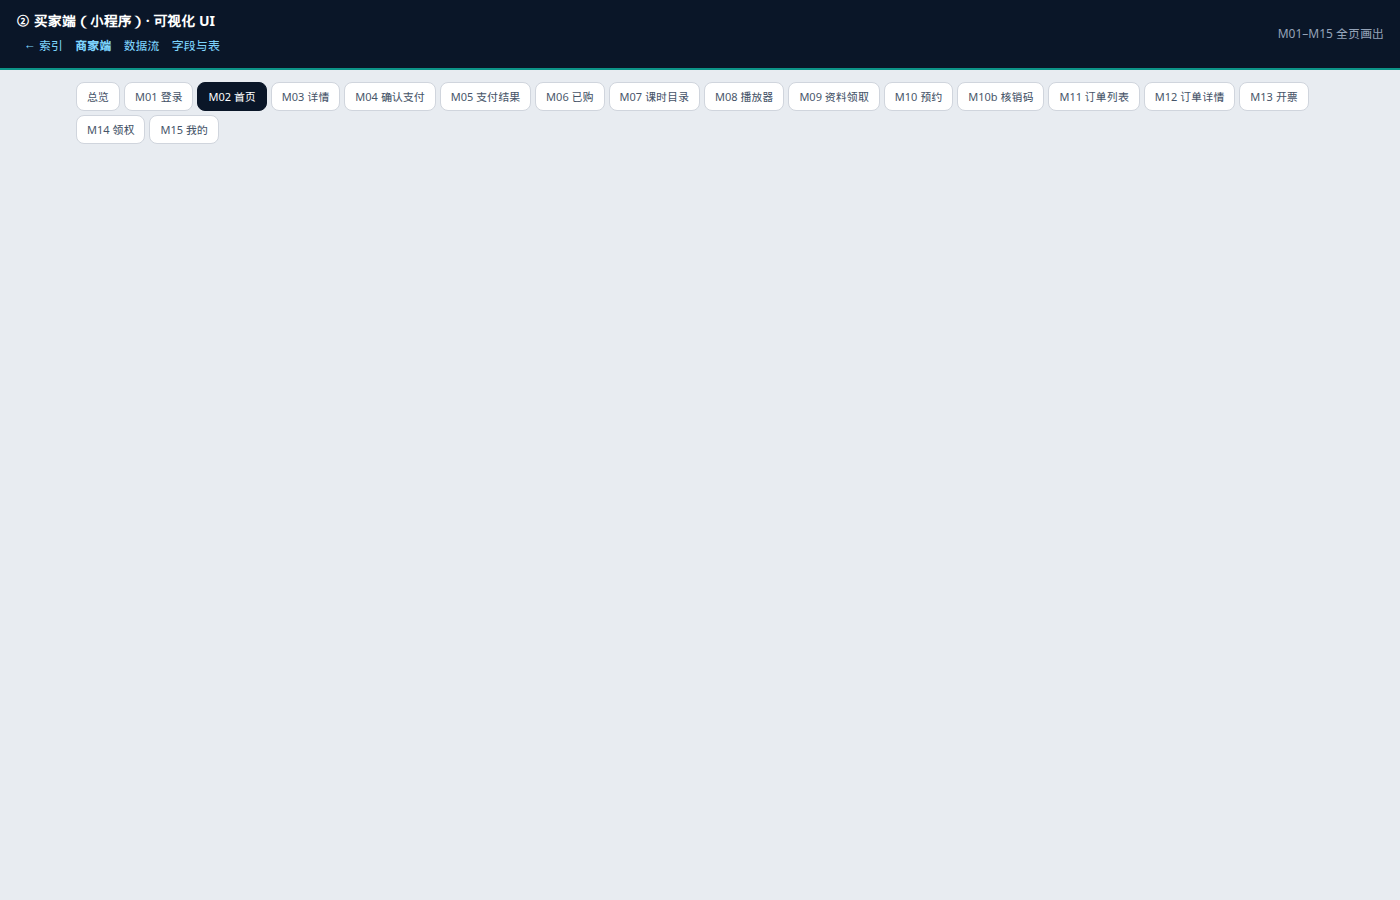
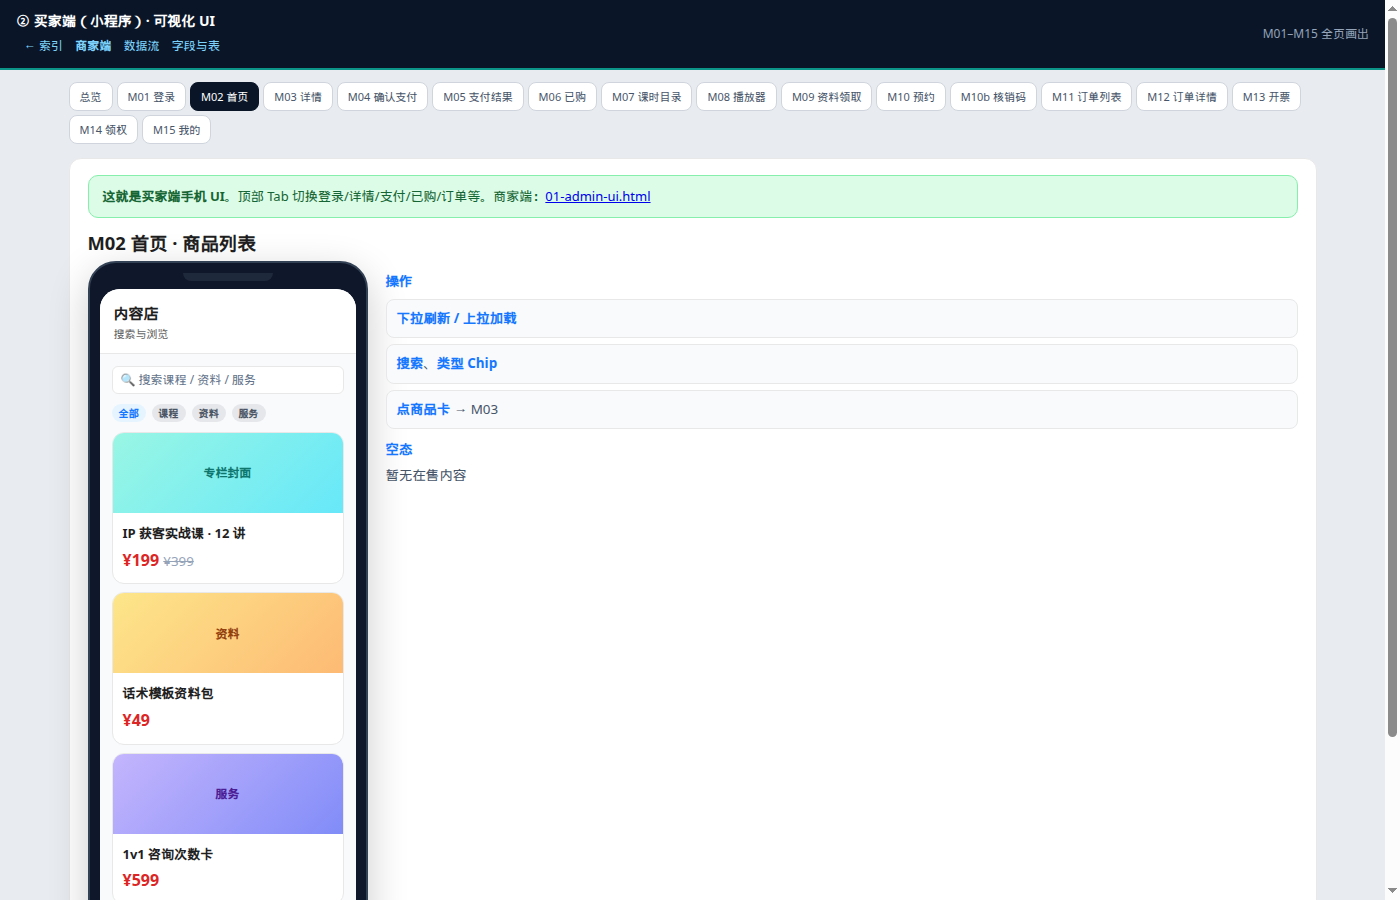
fix: 修复买家端空白页并强化 UI 入口
买家端 page.on 丢失导致内容区全隐藏；恢复默认 M02 首页并更新截图。
index 嵌入预览图与切分支说明，避免本地误在 master 找不到文件。

Changed region(s): [[0.0614, 0.1867, 0.4607, 1.0], [0.0614, 0.0933, 0.9214, 0.1556], [0.8907, 0.0, 1.0, 0.84]]

diff --git a/content-acquisition-shop-prd-phase1/content-acquisition-shop-prd-phase1.html b/content-acquisition-shop-prd-phase1/content-acquisition-shop-prd-phase1.html
@@ -6,42 +6,68 @@
 <title>【点我看UI】内容获客 Phase1 商家端+买家端</title>
 <style>
 body{font-family:-apple-system,"PingFang SC","Microsoft YaHei",sans-serif;margin:0;background:#0f172a;color:#e2e8f0}
-.hero{padding:48px 24px;text-align:center}
-.hero h1{font-size:1.6rem;margin:0 0 12px;color:#fff}
-.hero p{opacity:.85;margin:0 0 28px}
-.cards{display:flex;gap:16px;justify-content:center;flex-wrap:wrap;max-width:900px;margin:0 auto}
-.card{background:#1e293b;border:2px solid #38bdf8;border-radius:16px;padding:28px 24px;width:280px;text-align:left}
-.card h2{margin:0 0 8px;font-size:1.2rem;color:#7dd3fc}
-.card p{font-size:.9rem;color:#94a3b8;margin:0 0 16px;line-height:1.5}
+.hero{padding:36px 24px 12px;text-align:center}
+.hero h1{font-size:1.55rem;margin:0 0 10px;color:#fff}
+.hero p{opacity:.85;margin:0 0 22px;line-height:1.6}
+.cards{display:flex;gap:16px;justify-content:center;flex-wrap:wrap;max-width:960px;margin:0 auto}
+.card{background:#1e293b;border:2px solid #38bdf8;border-radius:16px;padding:22px 20px;width:300px;text-align:left}
+.card h2{margin:0 0 8px;font-size:1.15rem;color:#7dd3fc}
+.card p{font-size:.88rem;color:#94a3b8;margin:0 0 14px;line-height:1.5}
 .card a{display:block;text-align:center;padding:12px;background:#1677ff;color:#fff;border-radius:10px;text-decoration:none;font-weight:700}
 .card a.sec{background:#0d9488;margin-top:8px}
-.tip{max-width:640px;margin:28px auto 0;font-size:13px;color:#94a3b8;line-height:1.6}
+.shots{max-width:1100px;margin:28px auto;padding:0 16px 48px}
+.shots h2{font-size:1.05rem;color:#7dd3fc;margin:0 0 12px}
+.shot{background:#1e293b;border:1px solid #334155;border-radius:12px;padding:12px;margin-bottom:18px}
+.shot img{width:100%;border-radius:8px;display:block;background:#0b1220}
+.shot .cap{font-size:12px;color:#94a3b8;margin-top:8px}
+.tip{max-width:720px;margin:8px auto 0;font-size:13px;color:#94a3b8;line-height:1.7;text-align:left;padding:0 16px 40px}
 code{background:#334155;padding:2px 6px;border-radius:4px;color:#7dd3fc}
+.warn{background:#422006;border:1px solid #f59e0b;color:#fde68a;border-radius:10px;padding:12px 14px;margin:16px auto;max-width:720px;text-align:left;font-size:13px;line-height:1.6}
 </style>
 </head>
 <body>
 <div class="hero">
   <h1>【点我看 UI】内容获客 Phase 1</h1>
-  <p>打开下面链接即可看到画好的界面线框（不是 ASCII 文字框）</p>
+  <p>用<strong>浏览器</strong>打开下方链接（不要用 Cursor 文本预览）。默认即见画出的界面线框。</p>
   <div class="cards">
     <div class="card">
       <h2>① 商家端 Web</h2>
-      <p>默认进入「交易看板」：左侧菜单、指标卡、图表、订单表都已画出。</p>
+      <p>默认「交易看板」：左侧菜单、指标卡、图表、订单表。</p>
       <a href="01-admin-ui.html">打开商家端 UI →</a>
       <a class="sec" href="01-merchant-ui.html">备用同名入口</a>
     </div>
     <div class="card">
       <h2>② 买家端小程序</h2>
-      <p>默认进入「首页」手机壳：商品列表、底栏、可切换详情/支付/已购等。</p>
+      <p>默认「首页」手机壳：商品列表、底栏；顶部 Tab 可切详情/支付/已购等。</p>
       <a href="02-buyer-ui.html">打开买家端 UI →</a>
     </div>
   </div>
-  <div class="tip">
-    <b>若本地看不到这些文件：</b>请切换到 Git 分支 <code>cursor/shop-phase1-prd-ui-8b7d</code> 再拉取，
-    或打开 PR：https://github.com/shishengfei-sss/ai-content-marketing/pull/1<br>
-    目录：<code>content-acquisition-shop-prd-phase1/</code><br>
-    本文件：<code>index.html</code> / <code>【点我看UI】商家端与买家端.html</code>
+</div>
+
+<div class="warn">
+  <b>若本地没有 index / 看不到本目录：</b><br>
+  这些文件只在 Git 分支 <code>cursor/shop-phase1-prd-ui-8b7d</code>（不在 master）。请执行：<br>
+  <code>git fetch origin</code><br>
+  <code>git checkout cursor/shop-phase1-prd-ui-8b7d</code><br>
+  然后双击打开：<code>content-acquisition-shop-prd-phase1/index.html</code><br>
+  PR：https://github.com/shishengfei-sss/ai-content-marketing/pull/1
+</div>
+
+<div class="shots">
+  <h2>预览截图（打开上面链接可交互切换页面）</h2>
+  <div class="shot">
+    <img src="screenshots/merchant-a01.png" alt="商家端 A01 交易看板">
+    <div class="cap">商家端 · A01 交易看板</div>
   </div>
+  <div class="shot">
+    <img src="screenshots/buyer-m02.png" alt="买家端 M02 首页">
+    <div class="cap">买家端 · M02 首页（手机壳）</div>
+  </div>
+</div>
+
+<div class="tip">
+  同目录还有：<code>03-data-flows.html</code>（数据流）、<code>04-data-model.html</code>（表字段）、
+  <code>【点我看UI】商家端与买家端.html</code>（与本 index 相同入口）。
 </div>
 </body>
 </html>

diff --git a/content-acquisition-shop-prd-phase1/index.html b/content-acquisition-shop-prd-phase1/index.html
@@ -6,42 +6,68 @@
 <title>【点我看UI】内容获客 Phase1 商家端+买家端</title>
 <style>
 body{font-family:-apple-system,"PingFang SC","Microsoft YaHei",sans-serif;margin:0;background:#0f172a;color:#e2e8f0}
-.hero{padding:48px 24px;text-align:center}
-.hero h1{font-size:1.6rem;margin:0 0 12px;color:#fff}
-.hero p{opacity:.85;margin:0 0 28px}
-.cards{display:flex;gap:16px;justify-content:center;flex-wrap:wrap;max-width:900px;margin:0 auto}
-.card{background:#1e293b;border:2px solid #38bdf8;border-radius:16px;padding:28px 24px;width:280px;text-align:left}
-.card h2{margin:0 0 8px;font-size:1.2rem;color:#7dd3fc}
-.card p{font-size:.9rem;color:#94a3b8;margin:0 0 16px;line-height:1.5}
+.hero{padding:36px 24px 12px;text-align:center}
+.hero h1{font-size:1.55rem;margin:0 0 10px;color:#fff}
+.hero p{opacity:.85;margin:0 0 22px;line-height:1.6}
+.cards{display:flex;gap:16px;justify-content:center;flex-wrap:wrap;max-width:960px;margin:0 auto}
+.card{background:#1e293b;border:2px solid #38bdf8;border-radius:16px;padding:22px 20px;width:300px;text-align:left}
+.card h2{margin:0 0 8px;font-size:1.15rem;color:#7dd3fc}
+.card p{font-size:.88rem;color:#94a3b8;margin:0 0 14px;line-height:1.5}
 .card a{display:block;text-align:center;padding:12px;background:#1677ff;color:#fff;border-radius:10px;text-decoration:none;font-weight:700}
 .card a.sec{background:#0d9488;margin-top:8px}
-.tip{max-width:640px;margin:28px auto 0;font-size:13px;color:#94a3b8;line-height:1.6}
+.shots{max-width:1100px;margin:28px auto;padding:0 16px 48px}
+.shots h2{font-size:1.05rem;color:#7dd3fc;margin:0 0 12px}
+.shot{background:#1e293b;border:1px solid #334155;border-radius:12px;padding:12px;margin-bottom:18px}
+.shot img{width:100%;border-radius:8px;display:block;background:#0b1220}
+.shot .cap{font-size:12px;color:#94a3b8;margin-top:8px}
+.tip{max-width:720px;margin:8px auto 0;font-size:13px;color:#94a3b8;line-height:1.7;text-align:left;padding:0 16px 40px}
 code{background:#334155;padding:2px 6px;border-radius:4px;color:#7dd3fc}
+.warn{background:#422006;border:1px solid #f59e0b;color:#fde68a;border-radius:10px;padding:12px 14px;margin:16px auto;max-width:720px;text-align:left;font-size:13px;line-height:1.6}
 </style>
 </head>
 <body>
 <div class="hero">
   <h1>【点我看 UI】内容获客 Phase 1</h1>
-  <p>打开下面链接即可看到画好的界面线框（不是 ASCII 文字框）</p>
+  <p>用<strong>浏览器</strong>打开下方链接（不要用 Cursor 文本预览）。默认即见画出的界面线框。</p>
   <div class="cards">
     <div class="card">
       <h2>① 商家端 Web</h2>
-      <p>默认进入「交易看板」：左侧菜单、指标卡、图表、订单表都已画出。</p>
+      <p>默认「交易看板」：左侧菜单、指标卡、图表、订单表。</p>
       <a href="01-admin-ui.html">打开商家端 UI →</a>
       <a class="sec" href="01-merchant-ui.html">备用同名入口</a>
     </div>
     <div class="card">
       <h2>② 买家端小程序</h2>
-      <p>默认进入「首页」手机壳：商品列表、底栏、可切换详情/支付/已购等。</p>
+      <p>默认「首页」手机壳：商品列表、底栏；顶部 Tab 可切详情/支付/已购等。</p>
       <a href="02-buyer-ui.html">打开买家端 UI →</a>
     </div>
   </div>
-  <div class="tip">
-    <b>若本地看不到这些文件：</b>请切换到 Git 分支 <code>cursor/shop-phase1-prd-ui-8b7d</code> 再拉取，
-    或打开 PR：https://github.com/shishengfei-sss/ai-content-marketing/pull/1<br>
-    目录：<code>content-acquisition-shop-prd-phase1/</code><br>
-    本文件：<code>index.html</code> / <code>【点我看UI】商家端与买家端.html</code>
+</div>
+
+<div class="warn">
+  <b>若本地没有 index / 看不到本目录：</b><br>
+  这些文件只在 Git 分支 <code>cursor/shop-phase1-prd-ui-8b7d</code>（不在 master）。请执行：<br>
+  <code>git fetch origin</code><br>
+  <code>git checkout cursor/shop-phase1-prd-ui-8b7d</code><br>
+  然后双击打开：<code>content-acquisition-shop-prd-phase1/index.html</code><br>
+  PR：https://github.com/shishengfei-sss/ai-content-marketing/pull/1
+</div>
+
+<div class="shots">
+  <h2>预览截图（打开上面链接可交互切换页面）</h2>
+  <div class="shot">
+    <img src="screenshots/merchant-a01.png" alt="商家端 A01 交易看板">
+    <div class="cap">商家端 · A01 交易看板</div>
   </div>
+  <div class="shot">
+    <img src="screenshots/buyer-m02.png" alt="买家端 M02 首页">
+    <div class="cap">买家端 · M02 首页（手机壳）</div>
+  </div>
+</div>
+
+<div class="tip">
+  同目录还有：<code>03-data-flows.html</code>（数据流）、<code>04-data-model.html</code>（表字段）、
+  <code>【点我看UI】商家端与买家端.html</code>（与本 index 相同入口）。
 </div>
 </body>
 </html>

diff --git a/content-acquisition-shop-prd-phase1/【点我看UI】商家端与买家端.html b/content-acquisition-shop-prd-phase1/【点我看UI】商家端与买家端.html
@@ -6,42 +6,68 @@
 <title>【点我看UI】内容获客 Phase1 商家端+买家端</title>
 <style>
 body{font-family:-apple-system,"PingFang SC","Microsoft YaHei",sans-serif;margin:0;background:#0f172a;color:#e2e8f0}
-.hero{padding:48px 24px;text-align:center}
-.hero h1{font-size:1.6rem;margin:0 0 12px;color:#fff}
-.hero p{opacity:.85;margin:0 0 28px}
-.cards{display:flex;gap:16px;justify-content:center;flex-wrap:wrap;max-width:900px;margin:0 auto}
-.card{background:#1e293b;border:2px solid #38bdf8;border-radius:16px;padding:28px 24px;width:280px;text-align:left}
-.card h2{margin:0 0 8px;font-size:1.2rem;color:#7dd3fc}
-.card p{font-size:.9rem;color:#94a3b8;margin:0 0 16px;line-height:1.5}
+.hero{padding:36px 24px 12px;text-align:center}
+.hero h1{font-size:1.55rem;margin:0 0 10px;color:#fff}
+.hero p{opacity:.85;margin:0 0 22px;line-height:1.6}
+.cards{display:flex;gap:16px;justify-content:center;flex-wrap:wrap;max-width:960px;margin:0 auto}
+.card{background:#1e293b;border:2px solid #38bdf8;border-radius:16px;padding:22px 20px;width:300px;text-align:left}
+.card h2{margin:0 0 8px;font-size:1.15rem;color:#7dd3fc}
+.card p{font-size:.88rem;color:#94a3b8;margin:0 0 14px;line-height:1.5}
 .card a{display:block;text-align:center;padding:12px;background:#1677ff;color:#fff;border-radius:10px;text-decoration:none;font-weight:700}
 .card a.sec{background:#0d9488;margin-top:8px}
-.tip{max-width:640px;margin:28px auto 0;font-size:13px;color:#94a3b8;line-height:1.6}
+.shots{max-width:1100px;margin:28px auto;padding:0 16px 48px}
+.shots h2{font-size:1.05rem;color:#7dd3fc;margin:0 0 12px}
+.shot{background:#1e293b;border:1px solid #334155;border-radius:12px;padding:12px;margin-bottom:18px}
+.shot img{width:100%;border-radius:8px;display:block;background:#0b1220}
+.shot .cap{font-size:12px;color:#94a3b8;margin-top:8px}
+.tip{max-width:720px;margin:8px auto 0;font-size:13px;color:#94a3b8;line-height:1.7;text-align:left;padding:0 16px 40px}
 code{background:#334155;padding:2px 6px;border-radius:4px;color:#7dd3fc}
+.warn{background:#422006;border:1px solid #f59e0b;color:#fde68a;border-radius:10px;padding:12px 14px;margin:16px auto;max-width:720px;text-align:left;font-size:13px;line-height:1.6}
 </style>
 </head>
 <body>
 <div class="hero">
   <h1>【点我看 UI】内容获客 Phase 1</h1>
-  <p>打开下面链接即可看到画好的界面线框（不是 ASCII 文字框）</p>
+  <p>用<strong>浏览器</strong>打开下方链接（不要用 Cursor 文本预览）。默认即见画出的界面线框。</p>
   <div class="cards">
     <div class="card">
       <h2>① 商家端 Web</h2>
-      <p>默认进入「交易看板」：左侧菜单、指标卡、图表、订单表都已画出。</p>
+      <p>默认「交易看板」：左侧菜单、指标卡、图表、订单表。</p>
       <a href="01-admin-ui.html">打开商家端 UI →</a>
       <a class="sec" href="01-merchant-ui.html">备用同名入口</a>
     </div>
     <div class="card">
       <h2>② 买家端小程序</h2>
-      <p>默认进入「首页」手机壳：商品列表、底栏、可切换详情/支付/已购等。</p>
+      <p>默认「首页」手机壳：商品列表、底栏；顶部 Tab 可切详情/支付/已购等。</p>
       <a href="02-buyer-ui.html">打开买家端 UI →</a>
     </div>
   </div>
-  <div class="tip">
-    <b>若本地看不到这些文件：</b>请切换到 Git 分支 <code>cursor/shop-phase1-prd-ui-8b7d</code> 再拉取，
-    或打开 PR：https://github.com/shishengfei-sss/ai-content-marketing/pull/1<br>
-    目录：<code>content-acquisition-shop-prd-phase1/</code><br>
-    本文件：<code>index.html</code> / <code>【点我看UI】商家端与买家端.html</code>
+</div>
+
+<div class="warn">
+  <b>若本地没有 index / 看不到本目录：</b><br>
+  这些文件只在 Git 分支 <code>cursor/shop-phase1-prd-ui-8b7d</code>（不在 master）。请执行：<br>
+  <code>git fetch origin</code><br>
+  <code>git checkout cursor/shop-phase1-prd-ui-8b7d</code><br>
+  然后双击打开：<code>content-acquisition-shop-prd-phase1/index.html</code><br>
+  PR：https://github.com/shishengfei-sss/ai-content-marketing/pull/1
+</div>
+
+<div class="shots">
+  <h2>预览截图（打开上面链接可交互切换页面）</h2>
+  <div class="shot">
+    <img src="screenshots/merchant-a01.png" alt="商家端 A01 交易看板">
+    <div class="cap">商家端 · A01 交易看板</div>
   </div>
+  <div class="shot">
+    <img src="screenshots/buyer-m02.png" alt="买家端 M02 首页">
+    <div class="cap">买家端 · M02 首页（手机壳）</div>
+  </div>
+</div>
+
+<div class="tip">
+  同目录还有：<code>03-data-flows.html</code>（数据流）、<code>04-data-model.html</code>（表字段）、
+  <code>【点我看UI】商家端与买家端.html</code>（与本 index 相同入口）。
 </div>
 </body>
 </html>

diff --git a/【点我看UI】内容获客Phase1-商家端买家端.html b/【点我看UI】内容获客Phase1-商家端买家端.html
@@ -2,46 +2,17 @@
 <html lang="zh-CN">
 <head>
 <meta charset="UTF-8">
-<meta name="viewport" content="width=device-width, initial-scale=1.0">
-<title>【点我看UI】内容获客 Phase1 商家端+买家端</title>
-<style>
-body{font-family:-apple-system,"PingFang SC","Microsoft YaHei",sans-serif;margin:0;background:#0f172a;color:#e2e8f0}
-.hero{padding:48px 24px;text-align:center}
-.hero h1{font-size:1.6rem;margin:0 0 12px;color:#fff}
-.hero p{opacity:.85;margin:0 0 28px}
-.cards{display:flex;gap:16px;justify-content:center;flex-wrap:wrap;max-width:900px;margin:0 auto}
-.card{background:#1e293b;border:2px solid #38bdf8;border-radius:16px;padding:28px 24px;width:280px;text-align:left}
-.card h2{margin:0 0 8px;font-size:1.2rem;color:#7dd3fc}
-.card p{font-size:.9rem;color:#94a3b8;margin:0 0 16px;line-height:1.5}
-.card a{display:block;text-align:center;padding:12px;background:#1677ff;color:#fff;border-radius:10px;text-decoration:none;font-weight:700}
-.card a.sec{background:#0d9488;margin-top:8px}
-.tip{max-width:640px;margin:28px auto 0;font-size:13px;color:#94a3b8;line-height:1.6}
-code{background:#334155;padding:2px 6px;border-radius:4px;color:#7dd3fc}
-</style>
+<meta http-equiv="refresh" content="0; url=content-acquisition-shop-prd-phase1/index.html">
+<title>跳转到内容获客 Phase1 UI</title>
 </head>
-<body>
-<div class="hero">
-  <h1>【点我看 UI】内容获客 Phase 1</h1>
-  <p>打开下面链接即可看到画好的界面线框（不是 ASCII 文字框）</p>
-  <div class="cards">
-    <div class="card">
-      <h2>① 商家端 Web</h2>
-      <p>默认进入「交易看板」：左侧菜单、指标卡、图表、订单表都已画出。</p>
-      <a href="content-acquisition-shop-prd-phase1/01-admin-ui.html">打开商家端 UI →</a>
-      <a class="sec" href="content-acquisition-shop-prd-phase1/01-merchant-ui.html">备用同名入口</a>
-    </div>
-    <div class="card">
-      <h2>② 买家端小程序</h2>
-      <p>默认进入「首页」手机壳：商品列表、底栏、可切换详情/支付/已购等。</p>
-      <a href="content-acquisition-shop-prd-phase1/02-buyer-ui.html">打开买家端 UI →</a>
-    </div>
-  </div>
-  <div class="tip">
-    <b>若本地看不到这些文件：</b>请切换到 Git 分支 <code>cursor/shop-phase1-prd-ui-8b7d</code> 再拉取，
-    或打开 PR：https://github.com/shishengfei-sss/ai-content-marketing/pull/1<br>
-    目录：<code>content-acquisition-shop-prd-phase1/</code><br>
-    本文件：<code>index.html</code> / <code>【点我看UI】商家端与买家端.html</code>
-  </div>
-</div>
+<body style="font-family:sans-serif;padding:40px;background:#0f172a;color:#e2e8f0">
+  <h1>正在打开 UI…</h1>
+  <p>若未自动跳转，请点击：
+    <a style="color:#7dd3fc" href="content-acquisition-shop-prd-phase1/index.html">content-acquisition-shop-prd-phase1/index.html</a>
+  </p>
+  <p style="color:#94a3b8;font-size:13px;margin-top:24px">
+    若本地没有该目录：请 <code>git checkout cursor/shop-phase1-prd-ui-8b7d</code><br>
+    PR：https://github.com/shishengfei-sss/ai-content-marketing/pull/1
+  </p>
 </body>
 </html>

diff --git a/content-acquisition-shop-prd-phase1/02-buyer-ui.html b/content-acquisition-shop-prd-phase1/02-buyer-ui.html
@@ -158,13 +158,12 @@ table.meta th{background:#f8fafc}
   <div class="op"><b>确认绑定</b>：创建/合并 shop_buyers</div>
   <div class="k">校验</div>手机 1 开头 11 位；验证码 6 位。</div>
   </div>
-</div></article><article class="page " id="m02">
+</div></article><article class="page on" id="m02">
 <div class="doc">
-  
 <div style="background:#dcfce7;border:1px solid #86efac;border-radius:10px;padding:10px 14px;margin-bottom:10px;font-size:13px;color:#166534">
   <b>这就是买家端手机 UI</b>。顶部 Tab 切换登录/详情/支付/已购/订单等。商家端：<a href="01-admin-ui.html">01-admin-ui.html</a>
 </div>
-<h2>M02 首页 · 商品列表</h2>
+  <h2>M02 首页 · 商品列表</h2>
   <div class="row">
     
 <div class="phone">

diff --git a/content-acquisition-shop-prd-phase1/README.md b/content-acquisition-shop-prd-phase1/README.md
@@ -1,0 +1,26 @@
+# 内容获客平台 · Phase 1 PRD 可视化 UI
+
+> **用浏览器打开 `index.html`**（不要用 IDE 纯文本预览）。
+
+## 快速打开
+
+| 文件 | 说明 |
+|------|------|
+| [`index.html`](./index.html) | **入口**（含截图预览） |
+| [`01-admin-ui.html`](./01-admin-ui.html) | 商家端 Web（A01–A16） |
+| [`02-buyer-ui.html`](./02-buyer-ui.html) | 买家端小程序（M01–M15） |
+| [`03-data-flows.html`](./03-data-flows.html) | 数据流 |
+| [`04-data-model.html`](./04-data-model.html) | 表字段 |
+
+## 找不到文件？
+
+本目录在分支 **`cursor/shop-phase1-prd-ui-8b7d`**，**不在 master**。
+
+```bash
+git fetch origin
+git checkout cursor/shop-phase1-prd-ui-8b7d
+```
+
+然后打开：`content-acquisition-shop-prd-phase1/index.html`
+
+PR：https://github.com/shishengfei-sss/ai-content-marketing/pull/1
